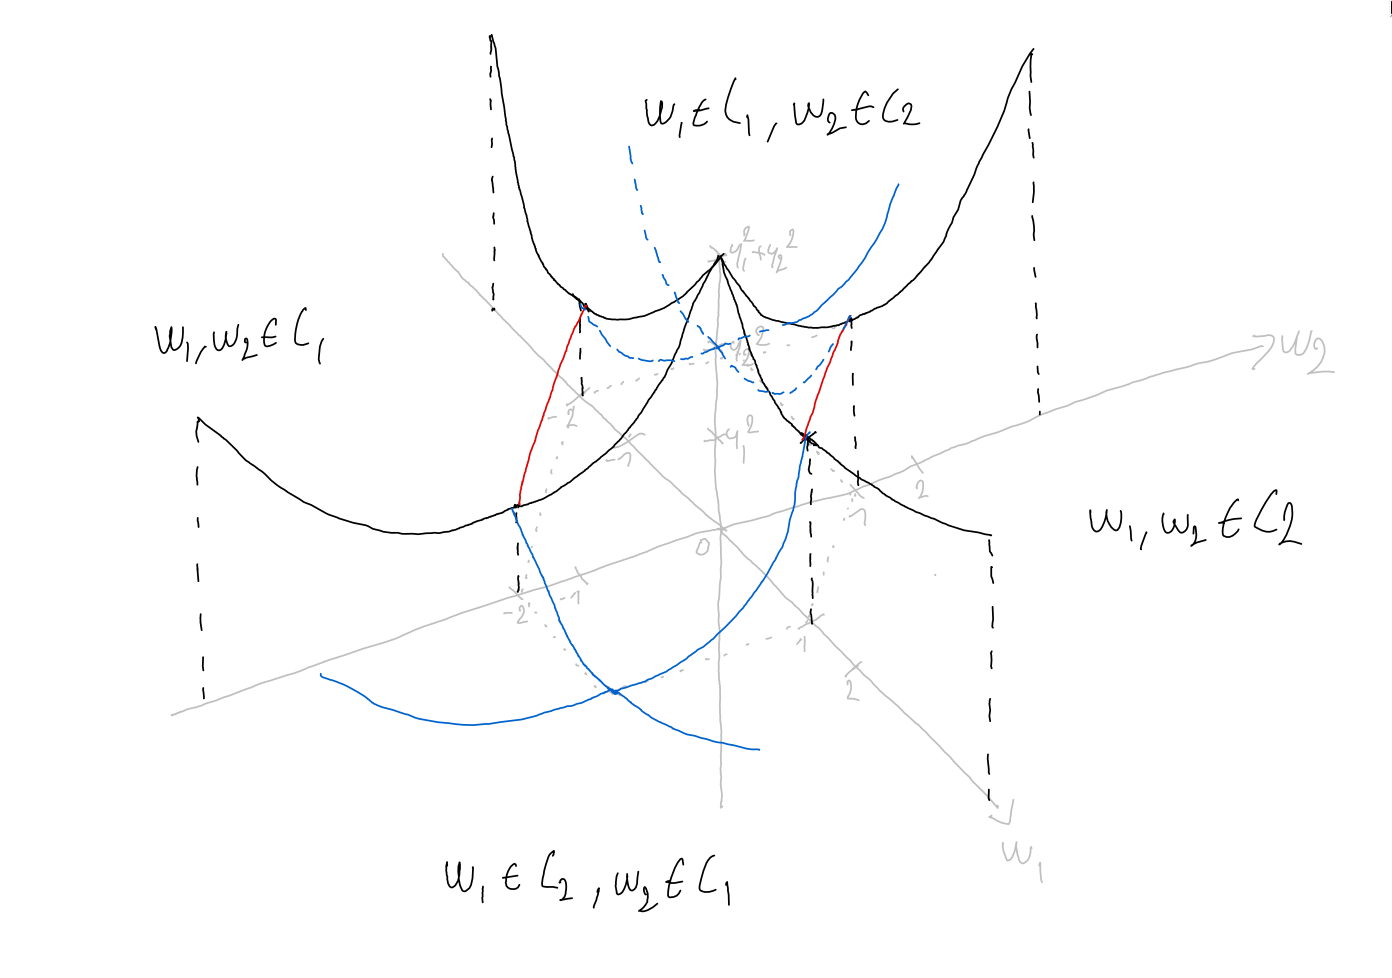
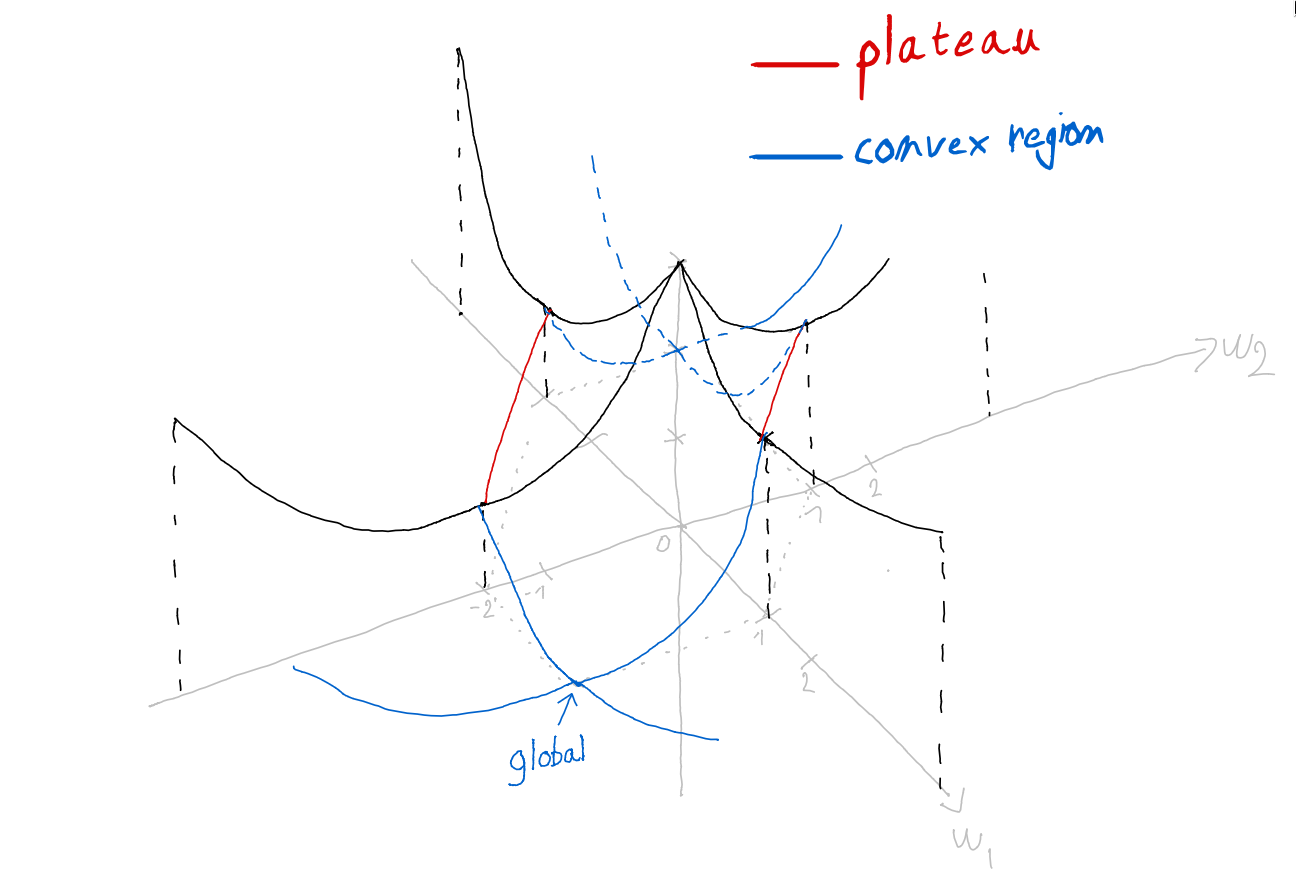
minor

diff --git a/_posts/2024-05-07-hidden-convex-relu.md b/_posts/2024-05-07-hidden-convex-relu.md
@@ -270,21 +270,26 @@ Our problem of interest will be the training of a simple two layer neural networ
 </p>
 
 
-Even the simplest ReLU models have non-trivial non-convexity as depicted in the figure below. We'll see in this blog post how to retrieve those two optimal neurons and how the data samples activate them using a convex problem.
-
+Even the simplest ReLU models have non-trivial non-convexity as depicted in the figure below. We plot the loss function $$\mathcal{L}$$ in function of two neurons on one-dimensional data. We only optimize the first layer here. We can observe that half the time, a gradient descent will get stuck at a plateau as the gradient is zero along the red line. However we can also notice that there is no spurious valleys.
 
 {% include figure.html path="assets/img/2024-05-07-hidden-convex-relu/nonconvex.png" class="img-fluid" %}
 
-_Loss landscape for two neurons, two data points of a single-layer ReLU network_
+_Loss landscape for two neurons($$w_1, w_2$$), two data points of a single-layer ReLU network_
 
+<p>
+\begin{equation}
+\mathcal{L}(w_1, w_2) = \left(\max(0, x_1 w_1) + \max(0, x_1 w_2) - y_1\right)^2 + \left(\max(0, x_2 w_1) + \max(0, x_2 w_2) - y_2\right)^2
+\end{equation}
+</p>
 
+We'll see in this blog post how to retrieve those two optimal neurons and how the data samples activate them using a convex problem.
 
 ### Research context
 
 
 The question of how neural networks learn is a very active domain of research with many different paths of investigation. Its main goal is to lay a mathematical foundation for deep learning and for this, shallow neural networks act as a stepping stone for studying deeper and more complex networks.
 
-For networks with a hidden layer of infinite width, it is proven that gradient descent converges to one of the global minima<d-cite key="allen-zhuConvergenceTheoryDeep2019a"></d-cite><d-cite key="duGradientDescentProvably2019"></d-cite><d-cite key="jacotNeuralTangentKernel2020a"></d-cite> under the _NTK regime_, or by studying Wasserstein gradient flows<d-cite key="chizatGlobalConvergenceGradient2018"></d-cite>. Studying the NTK amounts to studying the first order taylor expansion of the network, treating the network as a linear regression over a feature map. This approximation is accurate if the neurons are initialized at a large scale, large enough that neurons do not move far from their initialization. This is also called the _lazy regime_ <d-cite key="chizatLazyTrainingDifferentiable2020"></d-cite>, in constrast with the _feature learning regime_ where neurons align themselves to a finite amount of directions. The behavior is thus mostly convex, while it is noticeable,  we are also interested here in feature learning regime with small initialization where we can observe actual non-convex behavior such as neuron alignement, incremental learning<d-cite key="berthierIncrementalLearningDiagonal"></d-cite> and saddle to saddle dynamic<d-cite key="boursierGradientFlowDynamics2022b"></d-cite>.
+For networks with a hidden layer of infinite width, it is proven that gradient descent converges to one of the global minima<d-cite key="allen-zhuConvergenceTheoryDeep2019a"></d-cite><d-cite key="duGradientDescentProvably2019"></d-cite><d-cite key="jacotNeuralTangentKernel2020a"></d-cite> under the _NTK regime_, or by studying Wasserstein gradient flows<d-cite key="chizatGlobalConvergenceGradient2018"></d-cite>. <a href="https://rajatvd.github.io/NTK/">Studying the NTK</a> amounts to studying the first order taylor expansion of the network, treating the network as a linear regression over a feature map. This approximation is accurate if the neurons are initialized at a large scale, large enough that neurons do not move far from their initialization. This is also called the _lazy regime_ <d-cite key="chizatLazyTrainingDifferentiable2020"></d-cite>, in constrast with the _feature learning regime_ where neurons align themselves to a finite amount of directions. The behavior is thus mostly convex, while it is noticeable,  we are also interested here in feature learning regime with small initialization where we can observe actual non-convex behavior such as neuron alignement, incremental learning<d-cite key="berthierIncrementalLearningDiagonal"></d-cite> and saddle to saddle dynamic<d-cite key="boursierGradientFlowDynamics2022b"></d-cite>.
 
 Studying the loss landscape reveals that shallow networks with more neurons than data points, always have a non-increasing path to a global minimum<d-cite key="sharifnassabBoundsOverParameterizationGuaranteed2019"></d-cite>. This is a favorable property for (stochastic) gradient convergence. In '_The Hidden Convex Optimization Landscape of Regularized Two-Layer ReLU Networks_'<d-cite key="wangHiddenConvexOptimization2022"></d-cite><d-cite key="pilanciNeuralNetworksAre2020"></d-cite>, they extends those results by adding regularization which is used a lot in practice and known as weight decay. If no explicit regularization is used, it is known that there is an implicit bias of gradient descent for linear activations and recently ReLU networks<d-cite key="wangConvexGeometryBackpropagation2021"></d-cite> using the convex reformulation and it is sometimes exactly the same as using weight decay.
 
